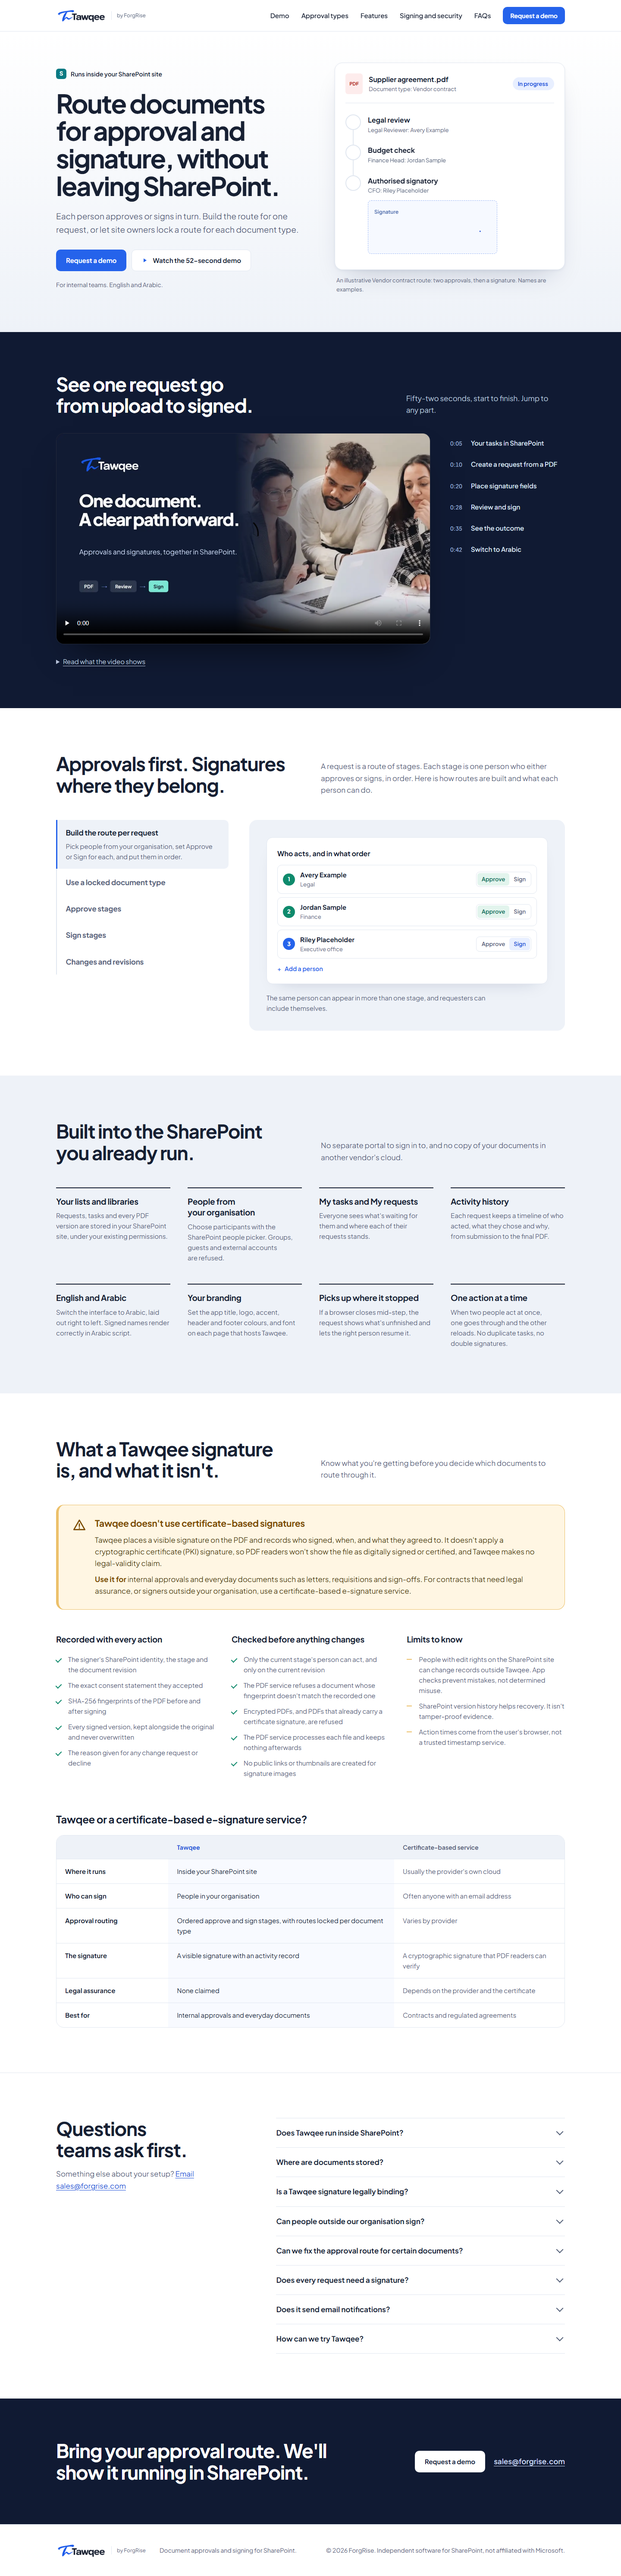
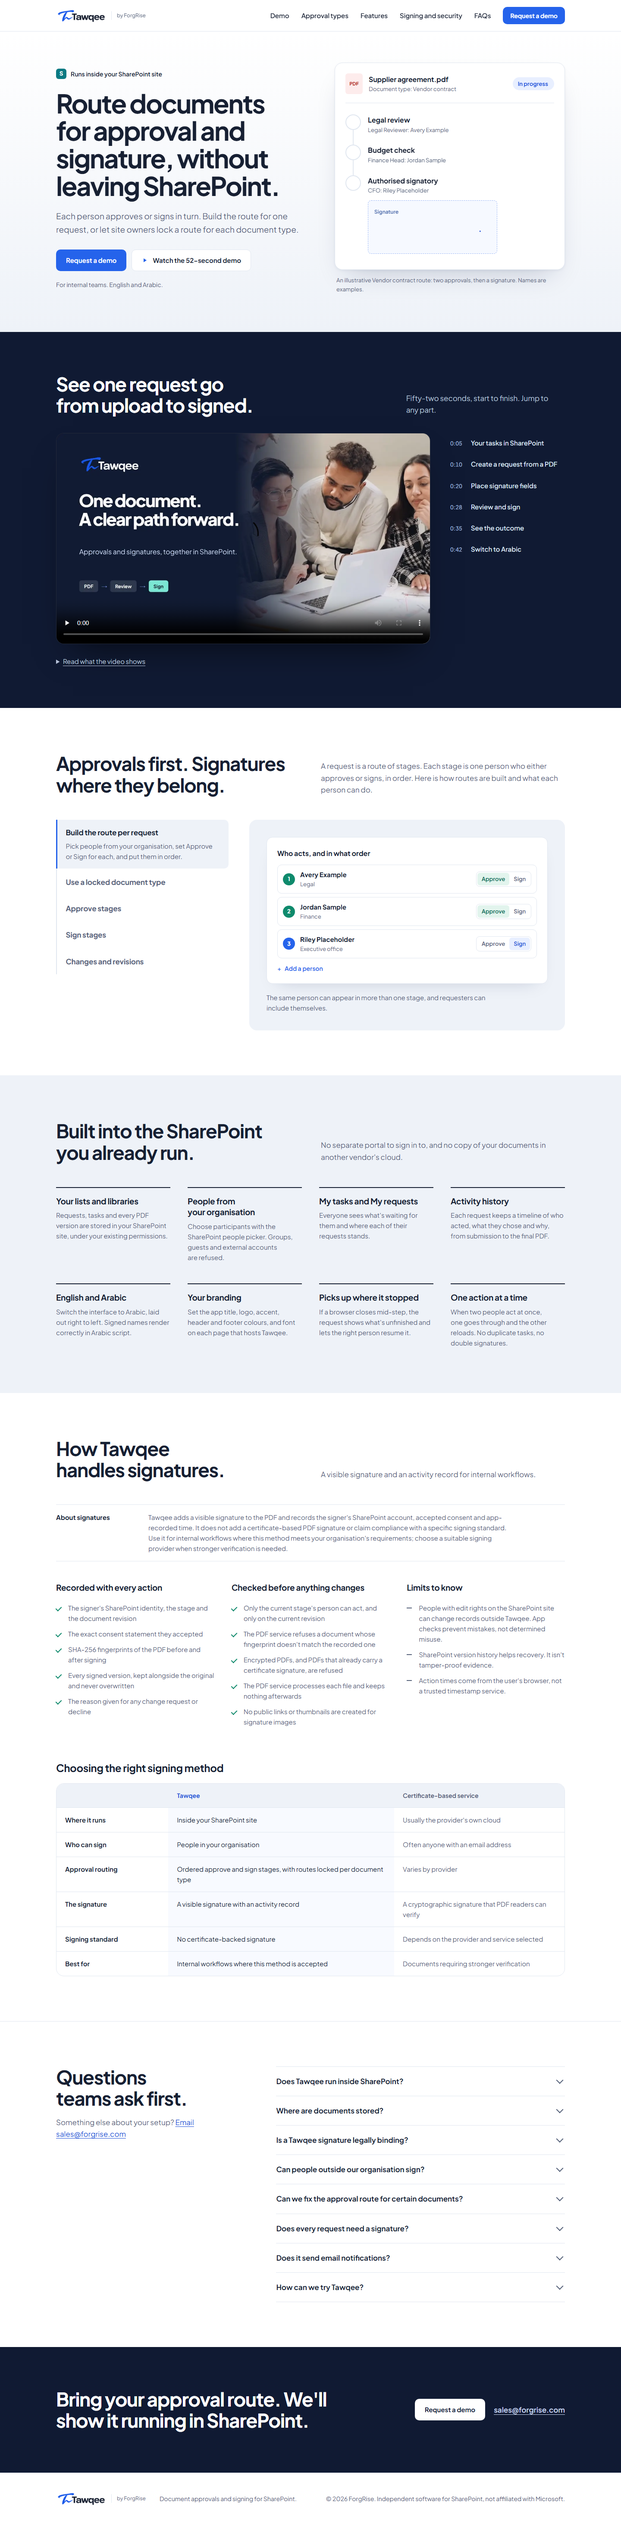
UI Updates

diff --git a/index.html b/index.html
@@ -252,21 +252,17 @@
       </div>
     </section>
 
-    <!-- Signing and security: honest about the signature type. -->
+    <!-- Signing and security: explain the signature type without a warning treatment. -->
     <section id="security" class="security">
       <div class="wrap">
         <div class="section-head">
-          <h2>What a Tawqee signature is, and what it isn't.</h2>
-          <p>Know what you're getting before you decide which documents to route through it.</p>
+          <h2>How Tawqee handles signatures.</h2>
+          <p>A visible signature and an activity record for internal workflows.</p>
         </div>
 
-        <aside class="notice" aria-labelledby="notice-title">
-          <svg class="notice-icon" viewBox="0 0 24 24" aria-hidden="true"><path d="M12 3.5 2.5 20h19L12 3.5z"/><path d="M12 10v4.5M12 17.2v.3"/></svg>
-          <div>
-            <h3 id="notice-title">Tawqee doesn't use certificate-based signatures</h3>
-            <p>Tawqee places a visible signature on the PDF and records who signed, when, and what they agreed to. It doesn't apply a cryptographic certificate (PKI) signature, so PDF readers won't show the file as digitally signed or certified, and Tawqee makes no legal-validity claim.</p>
-            <p><strong>Use it for</strong> internal approvals and everyday documents such as letters, requisitions and sign-offs. For contracts that need legal assurance, or signers outside your organisation, use a certificate-based e-signature service.</p>
-          </div>
+        <aside class="signing-note" aria-labelledby="signing-note-title">
+          <h3 id="signing-note-title">About signatures</h3>
+          <p>Tawqee adds a visible signature to the PDF and records the signer's SharePoint account, accepted consent and app-recorded time. It does not add a certificate-based PDF signature or claim compliance with a specific signing standard. Use it for internal workflows where this method meets your organisation's requirements; choose a suitable signing provider when stronger verification is needed.</p>
         </aside>
 
         <div class="safeguards">
@@ -301,7 +297,7 @@
         </div>
 
         <div class="compare">
-          <h3 id="compare-title">Tawqee or a certificate-based e-signature service?</h3>
+          <h3 id="compare-title">Choosing the right signing method</h3>
           <div class="table-scroll" role="region" aria-labelledby="compare-title" tabindex="0">
             <table>
               <thead><tr><th scope="col"><span class="sr-only">Question</span></th><th scope="col">Tawqee</th><th scope="col">Certificate-based service</th></tr></thead>
@@ -310,8 +306,8 @@
                 <tr><th scope="row">Who can sign</th><td>People in your organisation</td><td>Often anyone with an email address</td></tr>
                 <tr><th scope="row">Approval routing</th><td>Ordered approve and sign stages, with routes locked per document type</td><td>Varies by provider</td></tr>
                 <tr><th scope="row">The signature</th><td>A visible signature with an activity record</td><td>A cryptographic signature that PDF readers can verify</td></tr>
-                <tr><th scope="row">Legal assurance</th><td>None claimed</td><td>Depends on the provider and the certificate</td></tr>
-                <tr><th scope="row">Best for</th><td>Internal approvals and everyday documents</td><td>Contracts and regulated agreements</td></tr>
+                <tr><th scope="row">Signing standard</th><td>No certificate-backed signature</td><td>Depends on the provider and service selected</td></tr>
+                <tr><th scope="row">Best for</th><td>Internal workflows where this method is accepted</td><td>Documents requiring stronger verification</td></tr>
               </tbody>
             </table>
           </div>
@@ -328,7 +324,7 @@
         <div class="faq-list">
           <details><summary>Does Tawqee run inside SharePoint?</summary><p>Yes. Tawqee is a SharePoint Framework web part added to a page on your organisation's SharePoint site. This website introduces the product; your team uses the app in SharePoint.</p></details>
           <details><summary>Where are documents stored?</summary><p>Requests, tasks and files are stored in SharePoint lists and a document library in your site. To place a signature, the PDF is sent to a dedicated PDF service that stamps it and returns it. The result is saved back to SharePoint, and the service keeps nothing.</p></details>
-          <details><summary>Is a Tawqee signature legally binding?</summary><p>Tawqee makes no legal-validity claim. It isn't certificate-based signing: it applies a visible signature with an activity record, suited to internal approvals and everyday documents. <a href="#security">See what's recorded, and the limits.</a></p></details>
+          <details><summary>Is a Tawqee signature legally binding?</summary><p>Tawqee does not claim compliance with a specific signing standard. Whether its visible signature and activity record suit a document depends on your organisation's requirements and applicable law. <a href="#security">See how signing works and what is recorded.</a></p></details>
           <details><summary>Can people outside our organisation sign?</summary><p>No. Participants are internal users of your organisation. Guest and external signing aren't included.</p></details>
           <details><summary>Can we fix the approval route for certain documents?</summary><p>Yes. Site owners create document types from roles such as Finance Head or CFO. A requester picks the type, and the route is filled in and locked. Requesters can still choose General to build their own route.</p></details>
           <details><summary>Does every request need a signature?</summary><p>No. A route can be approvals only, and it completes without changing the PDF.</p></details>

diff --git a/styles.css b/styles.css
@@ -1,7 +1,6 @@
 @font-face{font-family:Jakarta;src:url('assets/jakarta-latin.woff2') format('woff2');font-style:normal;font-weight:200 800;font-display:swap}
 
-/* Tokens. Teal marks Approve stages and completion, blue marks Sign stages and actions,
-   amber is reserved for the signature-type notice. */
+/* Tokens. Teal marks Approve stages and completion; blue marks Sign stages and actions. */
 :root{
   --night:#101a33;
   --ink:#172033;
@@ -14,9 +13,6 @@
   --blue-soft:#e8efff;
   --teal:#0f8a6c;
   --teal-soft:#e2f4ed;
-  --amber:#7a4a00;
-  --amber-soft:#fff6e3;
-  --amber-line:#ecc06a;
   --radius-lg:18px;
   --radius:10px;
   font-family:Jakarta,'Segoe UI',system-ui,sans-serif;
@@ -216,16 +212,14 @@ small{font-size:13px}
 .feature-list p{font-size:15px;margin-top:8px}
 
 /* Security */
-.notice{display:flex;gap:20px;align-items:flex-start;background:var(--amber-soft);border:1px solid var(--amber-line);border-left-width:6px;border-radius:var(--radius-lg);padding:28px 32px;margin-bottom:56px}
-.notice-icon{width:32px;height:32px;flex-shrink:0;fill:none;stroke:var(--amber);stroke-width:2;stroke-linecap:round;stroke-linejoin:round;margin-top:2px}
-.notice h3{color:var(--amber);font-size:21px}
-.notice p{color:#4d3a12;margin-top:10px;max-width:62em}
-.notice strong{color:var(--amber)}
+.signing-note{display:grid;grid-template-columns:190px minmax(0,1fr);gap:24px;align-items:start;border-block:1px solid var(--line);padding-block:17px;margin-bottom:48px}
+.signing-note h3{font-size:15px;line-height:1.6;letter-spacing:0}
+.signing-note p{font-size:15px;line-height:1.6;max-width:78ch}
 .safeguards{display:grid;grid-template-columns:repeat(3,1fr);gap:40px}
 .safeguards h3{margin-bottom:16px}
 .ticks li,.dashes li{position:relative;padding-left:28px;font-size:15px;color:var(--slate);padding-block:6px}
 .ticks li::before{content:'';position:absolute;left:2px;top:12px;width:6px;height:11px;border:solid var(--teal);border-width:0 2.2px 2.2px 0;transform:rotate(45deg)}
-.dashes li::before{content:'';position:absolute;left:0;top:17px;width:12px;height:2px;background:var(--amber-line)}
+.dashes li::before{content:'';position:absolute;left:0;top:17px;width:12px;height:2px;background:var(--slate)}
 .compare{margin-top:72px}
 .compare h3{font-size:24px;margin-bottom:20px}
 .table-scroll{overflow-x:auto;border:1px solid var(--line);border-radius:var(--radius-lg)}
@@ -316,7 +310,7 @@ td:nth-child(2){color:var(--ink);background:#f8faff}
   .mock-stages .seg{margin-left:40px}
   .mock-sign{grid-template-columns:1fr}
   .feature-list{grid-template-columns:1fr;row-gap:32px}
-  .notice{flex-direction:column;padding:22px 20px;gap:12px}
+  .signing-note{grid-template-columns:1fr;gap:4px}
   .footer-legal{margin-left:0}
 }
 

diff --git a/DESIGN.md b/DESIGN.md
@@ -2,12 +2,12 @@
 
 ## Brief (2026-10-01 redesign)
 
-Redesign the Tawqee by ForgRise website completely, using SignWell as inspiration for structure. Position Tawqee as SharePoint-first and approval-first, include its features and the security of its signatures, and clearly warn that it is not certificate-based signing and is meant for everyday documents. Use `assets/tawqee-modern.mp4` as the demo.
+Redesign the Tawqee by ForgRise website completely, using SignWell as inspiration for structure. Position Tawqee as SharePoint-first and approval-first, include its features and explain the scope of its signatures in a calm, concise way. Use `assets/tawqee-modern.mp4` as the demo.
 
 ## What was borrowed from SignWell, and what wasn't
 
 - Borrowed: a direct value statement with the product in view, feature tabs where each tab shows its own product view, a dedicated security section, and a comparison table.
-- Not borrowed: customer logos, award badges, ratings, testimonials and usage statistics. Tawqee has none, and inventing them would be false. Compliance badges are replaced by an honest notice that this is not certificate-based signing, and the comparison table helps visitors choose Tawqee or a certificate-based service.
+- Not borrowed: customer logos, award badges, ratings, testimonials and usage statistics. Tawqee has none, and inventing them would be false. A concise note explains that its signatures are visible rather than certificate-based; the comparison table helps visitors choose a signing method.
 
 ## Palette
 
@@ -16,7 +16,6 @@ Redesign the Tawqee by ForgRise website completely, using SignWell as inspiratio
 - Paper `#FFFFFF` and Mist `#EEF2F8`: surfaces and alternating sections.
 - Signature blue `#2563EB`: Sign stages and primary actions (logo blue).
 - Approval teal `#0F8A6C`: Approve stages and completion.
-- Caution amber `#7A4A00` on `#FFF6E3`: used only for the signing-type notice.
 
 Colour carries meaning: teal is Approve, blue is Sign, the same split as the app's stage colours.
 
@@ -39,7 +38,7 @@ Approval types heading           explanation
 Features: 8 items in a ruled 4-column list (no cards)
 --------------------------------------------------------------------
 Signing and security heading
-[ amber notice: not certificate-based ]
+[ short ruled note: signature scope ]
 Recorded | Checked | Limits
 Comparison table
 --------------------------------------------------------------------
@@ -62,3 +61,4 @@ Content is left-aligned throughout. Numbers appear only where content is a seque
 - First pass: the route connector ran past the last stop. It was rebuilt as per-stop segments.
 - On mobile, stage rows squeezed names onto two lines; the Approve/Sign switch now moves below the name.
 - Checked in local headless Chromium at 1440 and 390 px (full-page) and with the tabs switched; no horizontal overflow at 1440, 1024, 768, 390 or 320 px.
+- The signing-scope copy became a short ruled note; the amber warning icon and large alert panel were removed.

diff --git a/STATUS.md b/STATUS.md
@@ -8,7 +8,8 @@ Product website redesign (2026-10-01): local implementation complete, awaiting t
 
 ## Delivered
 
-- 2026-10-01 redesign (DESIGN.md): animated approval-route hero, demo with chapter buttons (`tawqee-modern.mp4`, 52 s), Approval types tabs, features list, Signing and security section with the not-certificate-based notice and a comparison table, updated FAQs.
+- 2026-10-01 signing-copy refinement: shortened the certificate-scope text, removed the amber alert panel, and aligned the comparison table and legal FAQ with the same careful wording.
+- 2026-10-01 redesign (DESIGN.md): animated approval-route hero, demo with chapter buttons (`tawqee-modern.mp4`, 52 s), Approval types tabs, features list, Signing and security section with a signature-scope note and a comparison table, updated FAQs.
 
 - Responsive product page with Tawqee logo, illustrative signature workflow, supplied demo, feature sections, SharePoint explanation, FAQs and demo enquiries.
 - Contact: sales@forgrise.com. Planned domain: https://tawqee.forgrise.com/.
@@ -18,6 +19,7 @@ Product website redesign (2026-10-01): local implementation complete, awaiting t
 
 ## Evidence
 
+- LOCAL 2026-10-01 after the signing-copy refinement: `npm run check`, `node tools/browser-check.mjs` with installed Chrome, and `npm run build` passed. Refreshed `evidence/desktop.png`, `evidence/mobile.png`, and `evidence/checks.json`; layout checks found no horizontal overflow at 1440, 1024, 768, 390, or 320 CSS pixels.
 - LOCAL 2026-10-01: `npm run check`, `node tools/browser-check.mjs` (now also checks the approval tabs, by click and arrow keys, and the 52-second video) and `npm run build` passed.
 
 - LOCAL: Node 22.15.0; `node tools/check.mjs` passed.
@@ -37,7 +39,7 @@ Product website redesign (2026-10-01): local implementation complete, awaiting t
 
 ## Exactly one next task
 
-Review the redesigned site locally (`npm start`) and confirm the copy, especially the signing notice, before choosing a host for tawqee.forgrise.com.
+Review the revised site locally (`npm start`), then choose a host for tawqee.forgrise.com.
 
 ## Final session entry
 30 September 2026: copied to D:\Projects\Learning\TawqeeWeb. npm run check and npm run build both exited 0 in this directory. dist contains the deployable site. No packages installed or deployment performed.

diff --git a/CHANGELOG.md b/CHANGELOG.md
@@ -2,6 +2,7 @@
 
 ## 2026-10-01
 
+- Shortened the signature-scope copy and changed its amber alert panel to a compact neutral note. Aligned the comparison table and legal FAQ with the narrower claims.
 - Redesigned the website. The hero now shows an animated approval route (two approvals, then a signature), the layout borrows SignWell's feature-tab structure, and the copy leads with approvals.
 - Added an Approval types section with tabs for per-request routes, locked document types built from roles, Approve stages, Sign stages, and changes and revisions.
 - Added a Signing and security section: a notice that Tawqee is not certificate-based signing, what is recorded and checked, known limits, and a comparison with certificate-based e-signature services.
